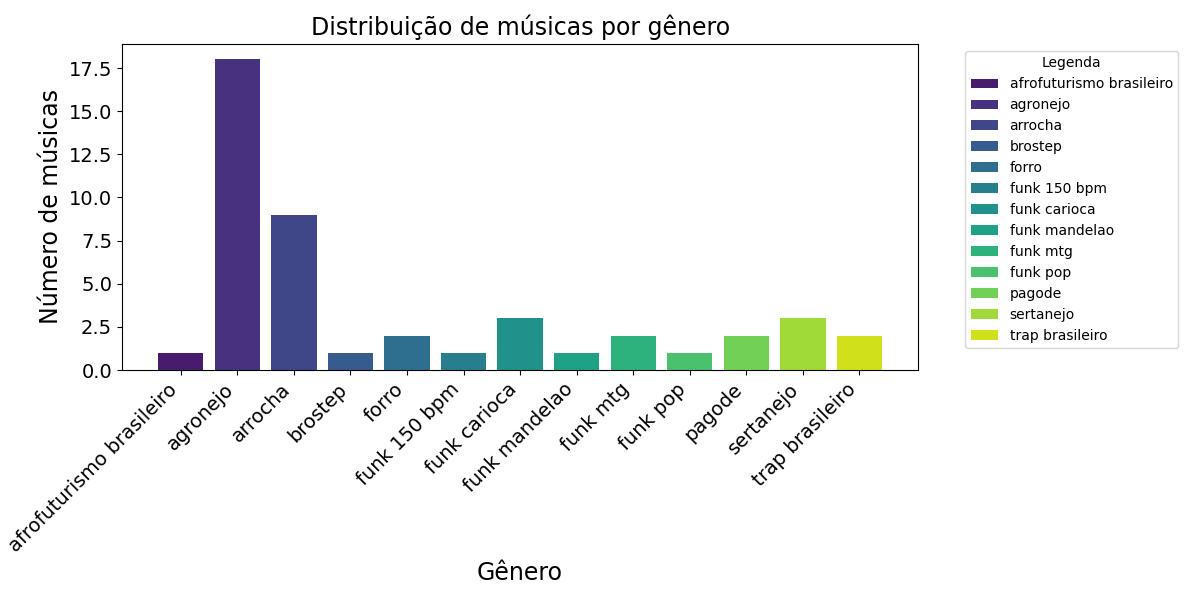
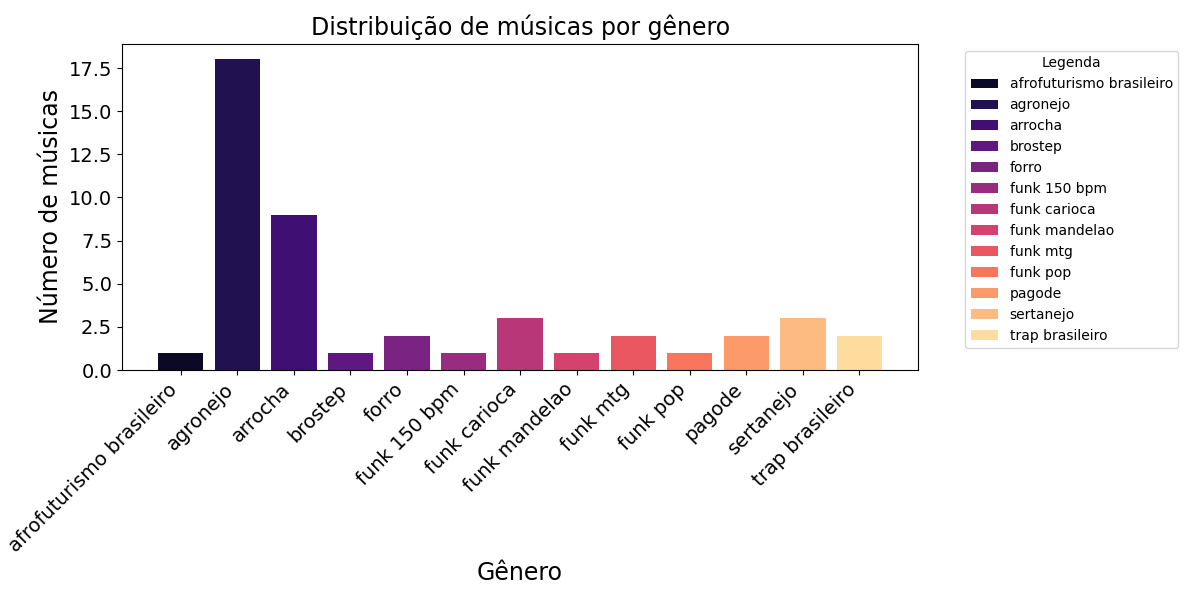
Commit 12

Changed region(s): [[0.1233, 0.09, 0.74, 0.63], [0.8017, 0.12, 0.8325, 0.57]]

diff --git a/GeneroXMediaTopBrasil.py b/GeneroXMediaTopBrasil.py
@@ -25,7 +25,7 @@ def gerar_grafico_popularidade_media_por_genero_TopBrasil():
     plt.figure(figsize=(12, 6))
 
     # Usar um ciclo para repetir as cores conforme necessário
-    cores = cycle(sns.color_palette('viridis', len(popularidade_media_por_genero)))
+    cores = cycle(sns.color_palette('magma', len(popularidade_media_por_genero)))
 
     # Iterar sobre cada gênero e plotar uma barra com uma cor diferente
     for genero, popularidade in zip(popularidade_media_por_genero['genre'], popularidade_media_por_genero['popularity']):

diff --git a/GeneroXMediaTop100.py b/GeneroXMediaTop100.py
@@ -25,7 +25,7 @@ def gerar_grafico_popularidade_media_por_genero_Top100():
     plt.figure(figsize=(12, 6))
 
     # Usar um ciclo para repetir as cores conforme necessário
-    cores = cycle(sns.color_palette('viridis', len(popularidade_media_por_genero)))
+    cores = cycle(sns.color_palette('plasma', len(popularidade_media_por_genero)))
 
     # Iterar sobre cada gênero e plotar uma barra com uma cor diferente
     for genero, popularidade in zip(popularidade_media_por_genero['genre'], popularidade_media_por_genero['popularity']):

diff --git a/PopularidadeXArtistaTopBrasil.py b/PopularidadeXArtistaTopBrasil.py
@@ -24,7 +24,7 @@ def gerar_grafico_popularidade_artista_TopBrasil():
     plt.figure(figsize=(12, 6))
     
     # Usar um ciclo para repetir as cores conforme necessário
-    cores = cycle(sns.color_palette('viridis', len(popularidade)))
+    cores = cycle(sns.color_palette('magma', len(popularidade)))
 
     # Criar o gráfico de barras horizontais
     for i, (artista, contagem) in enumerate(zip(popularidade['name_artist'], popularidade['contagem'])):

diff --git a/PopularidadeXArtistaTop100.py b/PopularidadeXArtistaTop100.py
@@ -24,7 +24,7 @@ def gerar_grafico_popularidade_artista_Top100():
     plt.figure(figsize=(12, 6))
     
     # Usar um ciclo para repetir as cores conforme necessário
-    cores = cycle(sns.color_palette('viridis', len(popularidade)))
+    cores = cycle(sns.color_palette('plasma', len(popularidade)))
 
     # Criar o gráfico de barras horizontais
     for i, (artista, contagem) in enumerate(zip(popularidade['name_artist'], popularidade['contagem'])):

diff --git a/GeneroXPopularidadeTopBrasil.py b/GeneroXPopularidadeTopBrasil.py
@@ -21,7 +21,7 @@ def gerar_grafico_popularidade_genero_TopBrasil():
     plt.figure(figsize=(12, 6))
 
     # Usar um ciclo para repetir as cores conforme necessário
-    cores = cycle(sns.color_palette('viridis', len(distribuicao)))
+    cores = cycle(sns.color_palette('magma', len(distribuicao)))
 
     # Iterar sobre cada gênero e plotar uma barra com uma cor diferente
     for genero, contagem in distribuicao.items():

diff --git a/GeneroXPopularidadeTop100.py b/GeneroXPopularidadeTop100.py
@@ -21,7 +21,7 @@ def gerar_grafico_popularidade_genero_Top100():
     plt.figure(figsize=(12, 6))
 
     # Usar um ciclo para repetir as cores conforme necessário
-    cores = cycle(sns.color_palette('viridis', len(distribuicao)))
+    cores = cycle(sns.color_palette('plasma', len(distribuicao)))
 
     # Iterar sobre cada gênero e plotar uma barra com uma cor diferente
     for genero, contagem in distribuicao.items():

diff --git a/VariacaoPopularidadeTopBrasil.py b/VariacaoPopularidadeTopBrasil.py
@@ -25,7 +25,7 @@ def gerar_grafico_variacao_popularidade_TopBrasil():
     top_10 = df_data_especifica.nlargest(10, 'popularity')
 
     # Criar uma paleta de cores
-    colors = sns.color_palette('viridis', len(top_10))
+    colors = sns.color_palette('magma', len(top_10))
 
     # Criar o gráfico de dispersão com legenda de cores
     plt.figure(figsize=(12, 6))

diff --git a/VariacaoPopularidadeTop100.py b/VariacaoPopularidadeTop100.py
@@ -25,7 +25,7 @@ def gerar_grafico_variacao_popularidade_Top100():
     top_10 = df_data_especifica.nlargest(10, 'popularity')
 
     # Criar uma paleta de cores
-    colors = sns.color_palette('viridis', len(top_10))
+    colors = sns.color_palette('plasma', len(top_10))
 
     # Criar o gráfico de dispersão com legenda de cores
     plt.figure(figsize=(12, 6))
